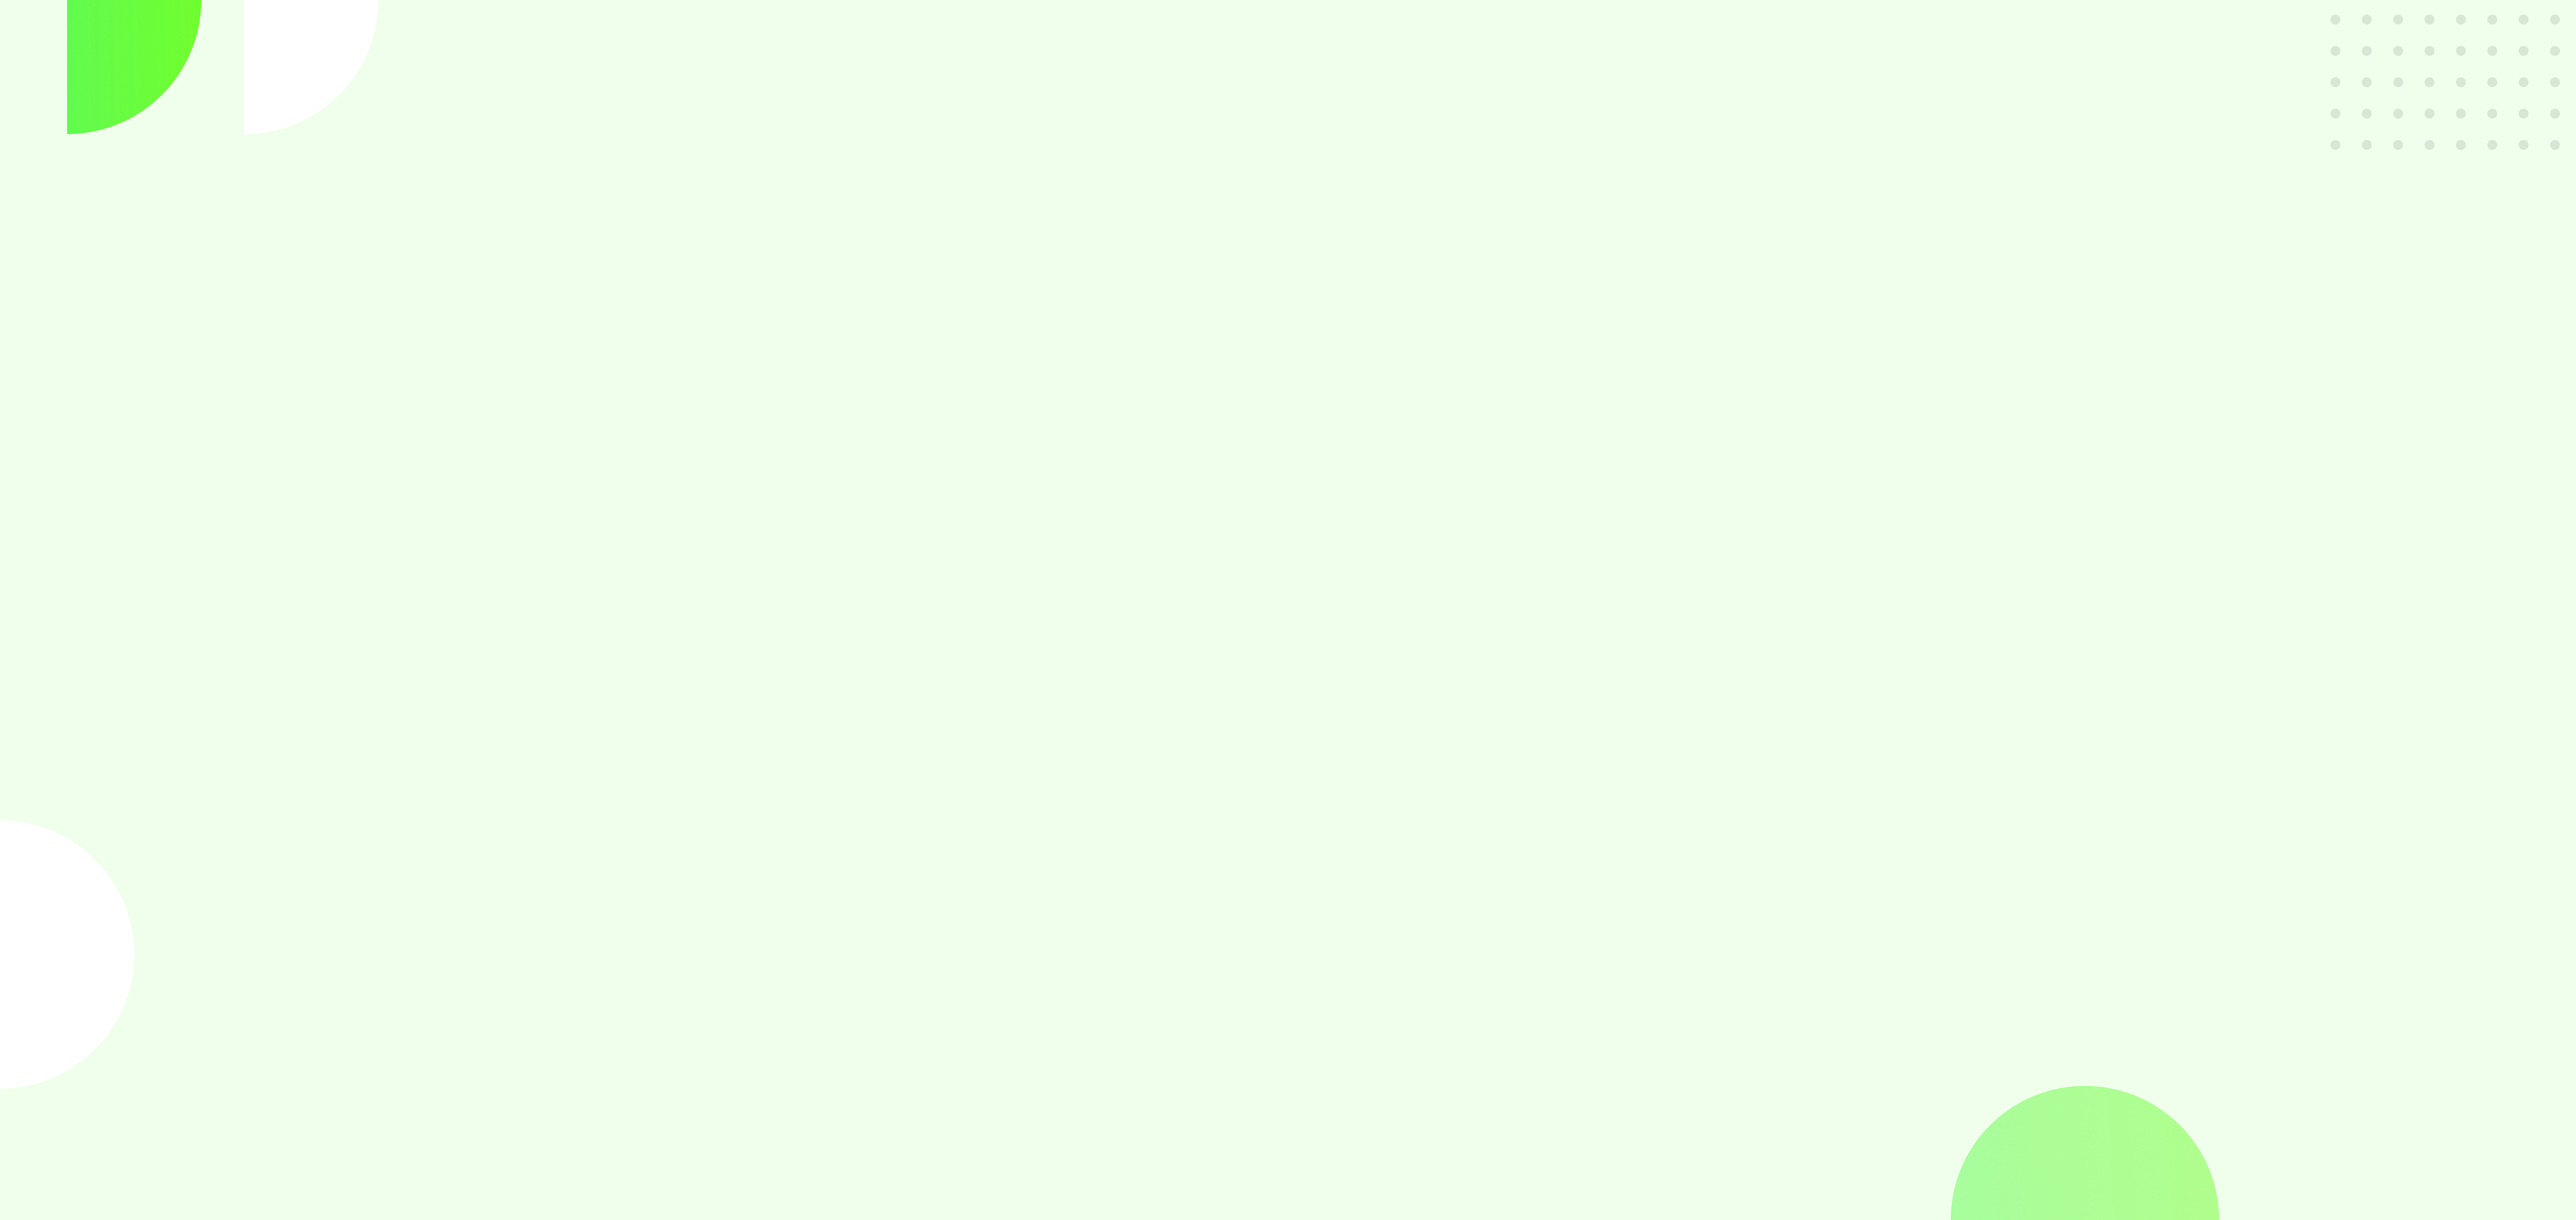
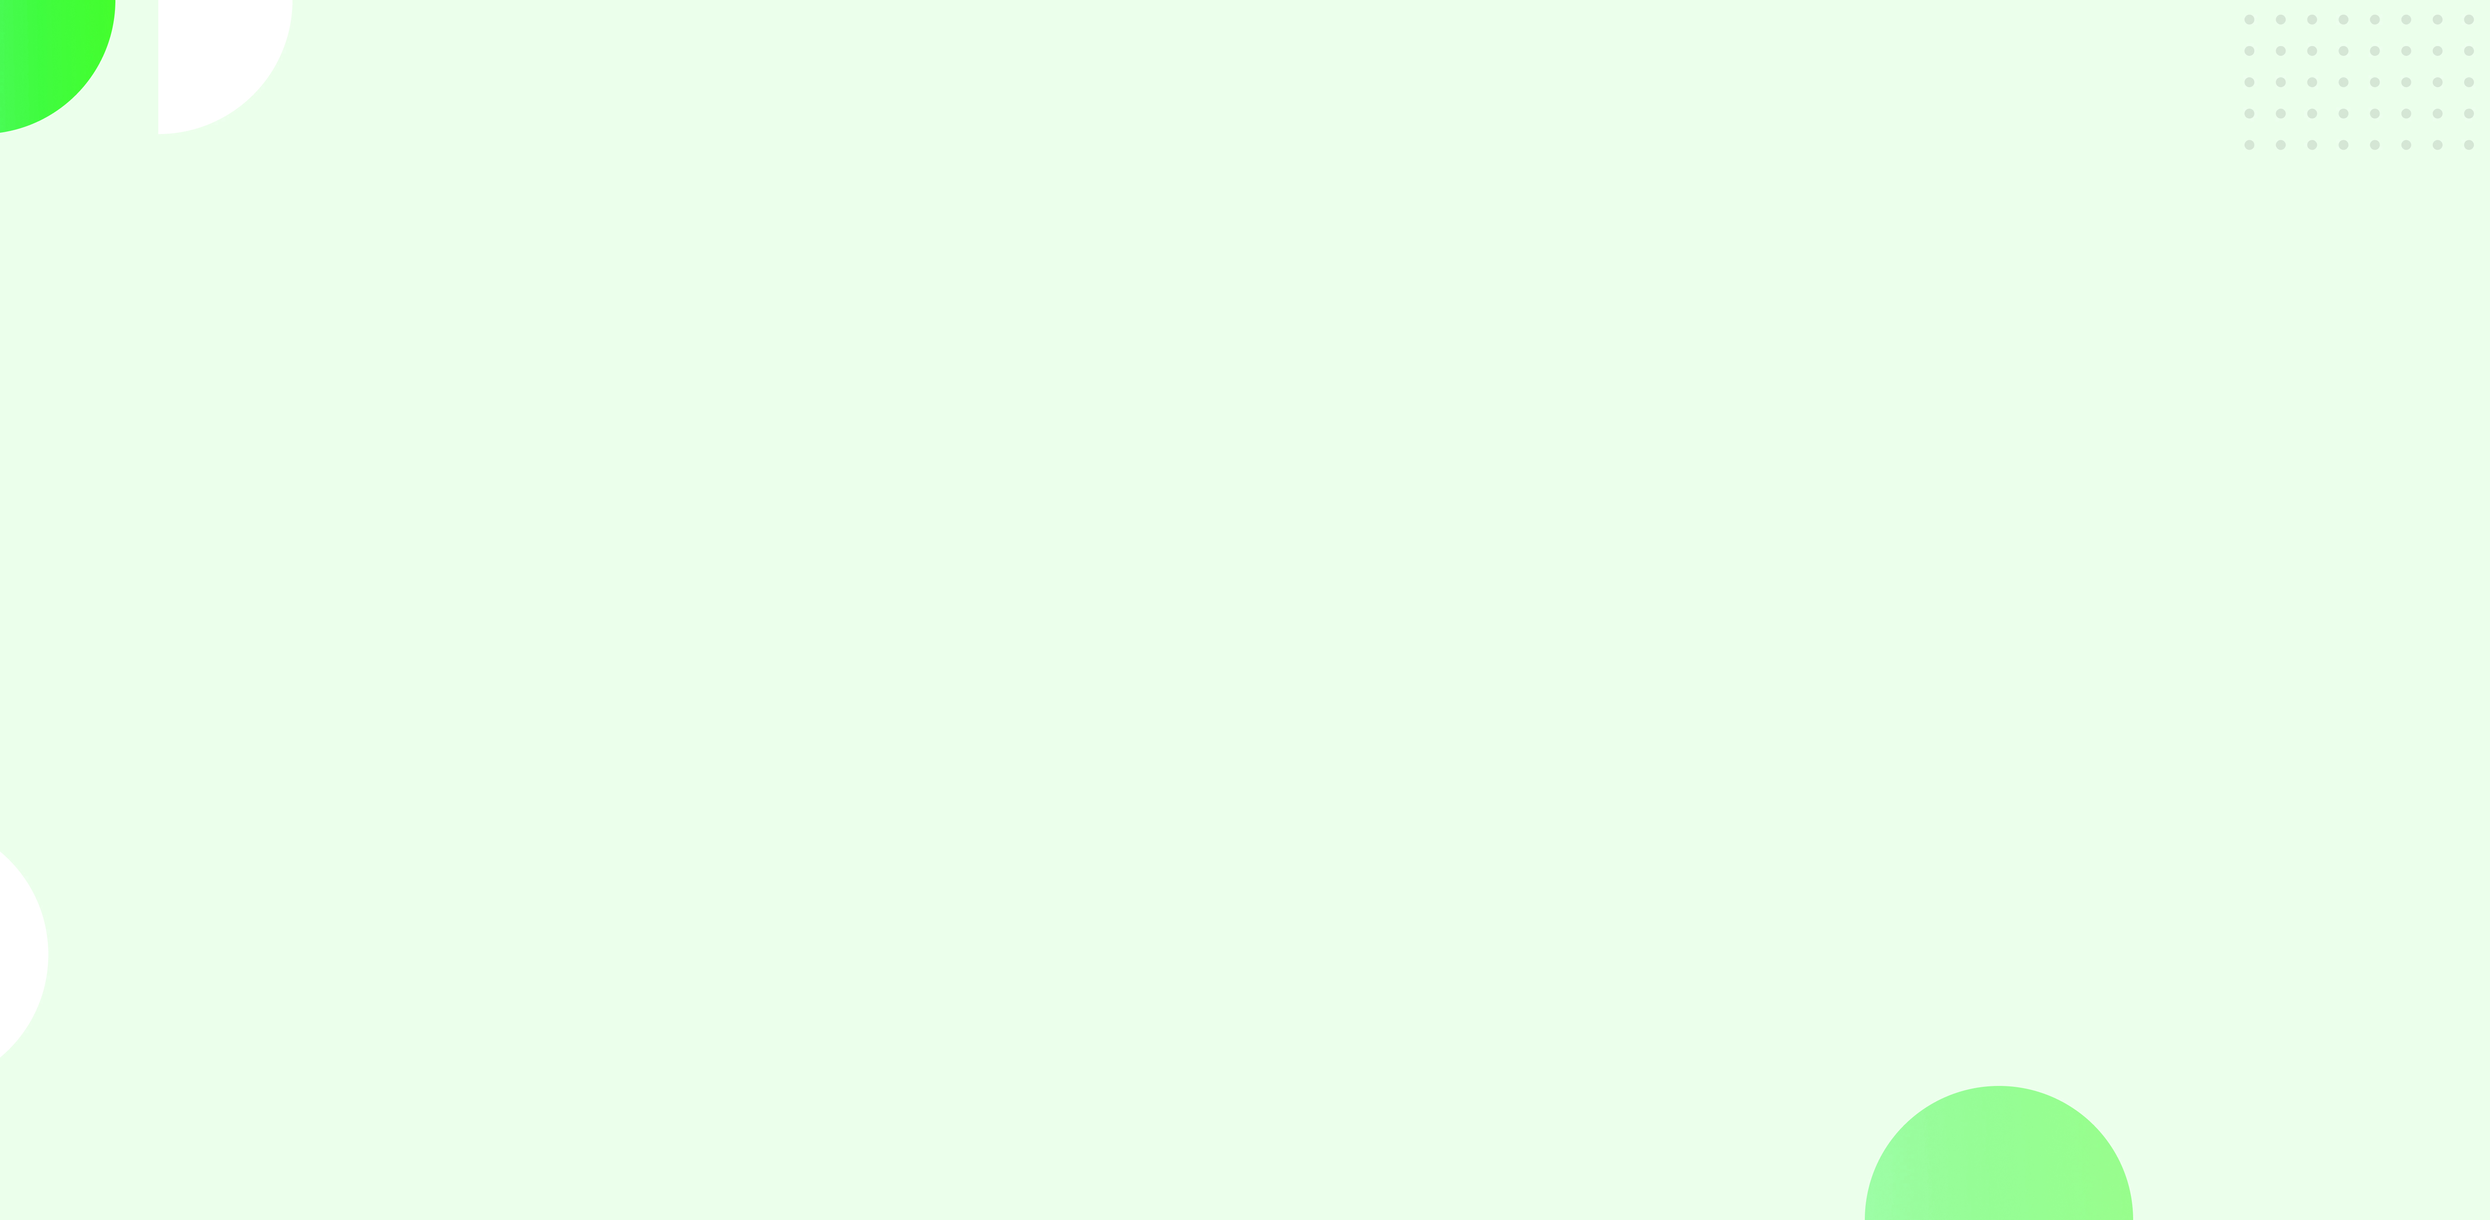
section part two complete

diff --git a/style.css b/style.css
@@ -45,10 +45,11 @@ background-image: linear-gradient(to right, #1fbb34, #03e634);
 .header-bg{
     background-image: url(images/header-bg.png);
     background-size: cover;
+    overflow: hidden;
 }
 .container{
-    width: 95%;
-    height: 900px;
+    width: 100%;
+    height: 800px;
     margin-left: 5%;
     display: flex;
 
@@ -56,7 +57,12 @@ background-image: linear-gradient(to right, #1fbb34, #03e634);
 .container-half{
     width: 50%;
 }
+.container-half img{
+    width: 100%;
+}
+    
 .container-inner{
+    width: 95%;
     padding-top:30%;
 }
 h1{
@@ -70,6 +76,7 @@ h1{
     font-size: 30px;
     color:#6d6c6c;
     margin-bottom: 10%;
+    margin-right: 20px;
     font-weight: 700;
 }
 .anchor-button{
@@ -81,4 +88,9 @@ h1{
     border-radius: 30px;
     color: white;
     font-weight: 700;
+}
+.about-bg{
+    background-image: url(images/about-bg.png);
+    background-size: cover;
+    overflow: hidden;
 }

diff --git a/index.html b/index.html
@@ -52,7 +52,24 @@
             </div>
         </div>
     </section>
+    <!-- second-part************************************* -->
+    <section class="about-bg">
 
+        <div class="container">
+
+            <div class="container-half">
+                <img src="images/master-cheff.png" alt="">
+            </div>
+            <div class="container-half">
+                <div class="container-inner">
+                    <h1>About Me</h1>
+                    <p>I'm thrilled to offer my best services to you and your loved ones. I provide full cooked meals
+                        for individuls ad special events alike all throughout Dhaka.</p>
+                    <a class="anchor-button" href="#">Contact Me</a>
+                </div>
+            </div>
+        </div>
+    </section>
 
 </body>
 
